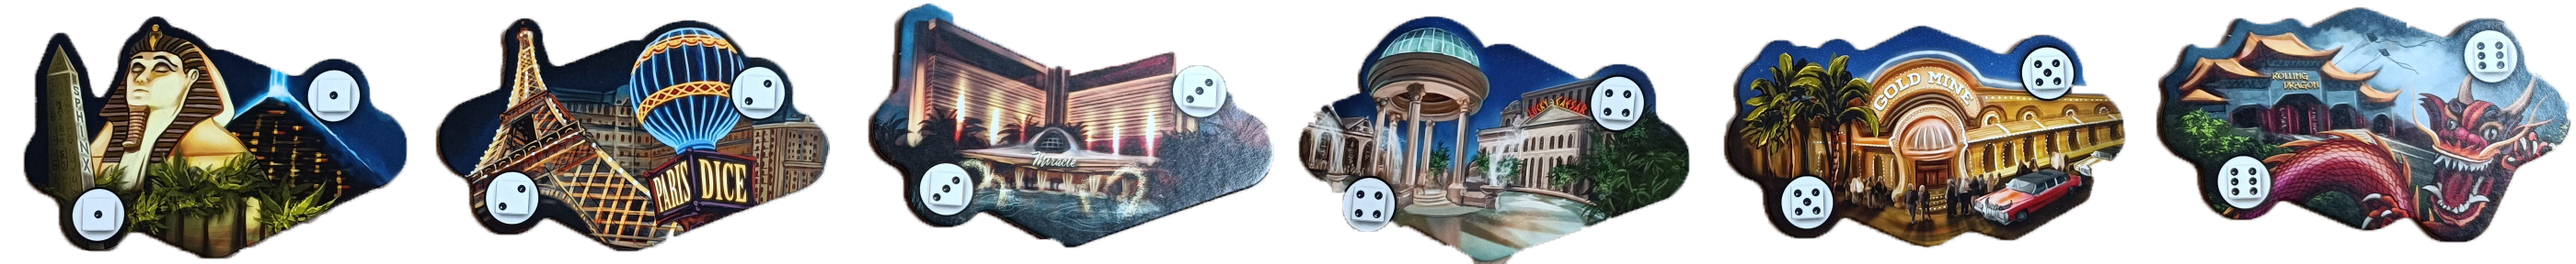
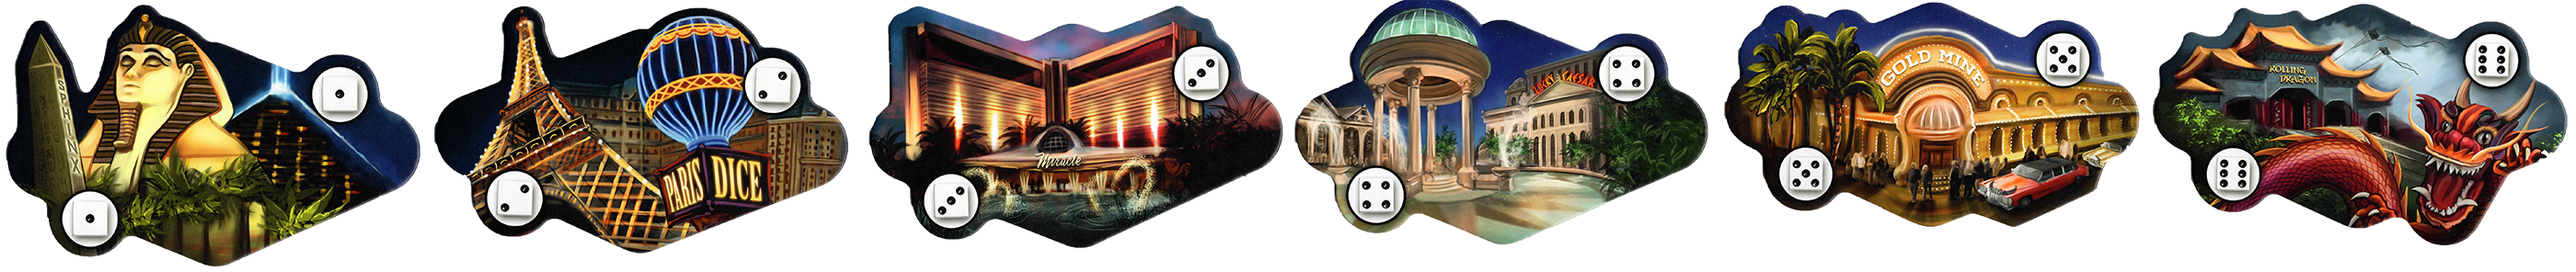
update dices & allow click on dice selector

diff --git a/lasvegasthoun.js b/lasvegasthoun.js
@@ -11,14 +11,15 @@ var Casino = /** @class */ (function () {
         dojo.place("<div id=\"casino_wrapper" + this.casino + "\" class=\"casino_wrapper\">\n                <div id=\"casino" + this.casino + "\" class=\"casino\"></div>\n                <div id=\"banknotes" + this.casino + "\" class=\"banknotes\"></div>\n            </div>", 'casinos');
         document.getElementById("casino" + this.casino).addEventListener('click', function () { return _this.onSelection(); });
         this.stock = new ebg.stock();
-        this.stock.create(this.game, $("banknotes" + this.casino), 350, 100);
+        this.stock.create(this.game, $("banknotes" + this.casino), 350, 165);
         this.stock.centerItems = true;
         this.stock.image_items_per_row = 1;
         this.stock.setSelectionMode(0);
         for (var value = 1; value <= 9; value++) {
-            this.stock.addItemType(value, 10 - value, g_gamethemeurl + "img/banknotes.png", value - 1);
+            this.stock.addItemType(value, 10 - value, g_gamethemeurl + "img/banknotes.jpg", value - 1);
         }
         this.banknotes.forEach(function (banknote) { return _this.stock.addToStockWithId(banknote.value, "" + banknote.id, 'topbar'); });
+        console.log(this.banknotes, this.stock.items);
     };
     Casino.prototype.setSelectable = function (selectable) {
         this.selectable = selectable;
@@ -30,9 +31,11 @@ var Casino = /** @class */ (function () {
         }
     };
     Casino.prototype.slideBanknoteTo = function (banknoteId, playerId) {
+        console.log('slideBanknoteTo', banknoteId, JSON.stringify(this.stock.items, null, 2), document.getElementById("playertable-" + playerId));
         this.stock.removeFromStockById("" + banknoteId, "playertable-" + playerId);
     };
     Casino.prototype.removeBanknote = function (banknoteId) {
+        console.log('removeBanknote', banknoteId, JSON.stringify(this.stock.items, null, 2));
         this.stock.removeFromStockById("" + banknoteId);
     };
     Casino.prototype.removeDices = function () {
@@ -80,8 +83,24 @@ var LasVegas = /** @class */ (function () {
         for (var i = 1; i <= 6; i++) {
             _loop_1(i);
         }
+        document.getElementById('dices-selector').addEventListener('click', function (event) { return _this.diceSelectorClick(event); });
         this.setupNotifications();
         console.log("Ending game setup");
+        /*const colors = [
+            'ff0000',
+            '008000',
+            '0000ff',
+            'ffa500',
+            '000000',
+            'ffffff',
+            'e94190',
+            '982fff',
+            '72c3b1',
+            'f07f16',
+            'bdd002',
+            '7b7b7b'
+        ];
+        colors.forEach(color => dojo.place(this.createDiceHtml(5, color), `dices-test`));*/
     };
     ///////////////////////////////////////////////////
     //// Game & client states
@@ -105,6 +124,7 @@ var LasVegas = /** @class */ (function () {
                 }
             }
         }
+        dojo.addClass('dices-selector', 'selectable');
     };
     // onLeavingState: this method is called each time we are leaving a game state.
     //                 You can use this method to perform some user interface changes at this moment.
@@ -119,6 +139,7 @@ var LasVegas = /** @class */ (function () {
     LasVegas.prototype.onLeavingPlayerTurn = function () {
         //this.setTableDices();
         this.casinos.forEach(function (casino) { return casino.setSelectable(false); });
+        dojo.removeClass('dices-selector', 'selectable');
     };
     // onUpdateActionButtons: in this method you can manage "action buttons" that are displayed in the
     //                        action status bar (ie: the HTML links in the status bar).
@@ -151,7 +172,8 @@ var LasVegas = /** @class */ (function () {
         });
     };
     LasVegas.prototype.createDiceHtml = function (number, color) {
-        return "<div class=\"dice dice" + number + "\"><div class=\"dice-overlay\" style=\"background: #" + color + "\"></div></div>";
+        var blackDot = [parseInt(color.substr(0, 2), 16), parseInt(color.substr(2, 2), 16), parseInt(color.substr(4, 2), 16)].reduce(function (a, b) { return a + b; }) > 460;
+        return "<div class=\"dice dice" + number + " " + (blackDot ? 'black-dot' : 'white-dot') + "\" style=\"background-color: #" + color + "; border-color: #" + color + ";\"></div>";
     };
     LasVegas.prototype.moveDicesToCasino = function (casino, playerId) {
         var _this = this;
@@ -171,6 +193,14 @@ var LasVegas = /** @class */ (function () {
             //(this as any).slideToObjectAndDestroy(element, `overall_player_board_${playerId}`);
             _this.fadeOutAndDestroy(element);
         });
+    };
+    LasVegas.prototype.diceSelectorClick = function (event) {
+        var _a, _b, _c;
+        var numberMatch = (_c = (_b = (_a = event.target) === null || _a === void 0 ? void 0 : _a.classList) === null || _b === void 0 ? void 0 : _b.value) === null || _c === void 0 ? void 0 : _c.match(/\d/);
+        if (numberMatch) {
+            var number = parseInt(numberMatch[0]);
+            this.casinos[number].onSelection();
+        }
     };
     ///////////////////////////////////////////////////
     //// Reaction to cometD notifications

diff --git a/src/lasvegas.ts b/src/lasvegas.ts
@@ -26,14 +26,16 @@ class Casino {
         document.getElementById(`casino${this.casino}`).addEventListener('click', () => this.onSelection());
 
         this.stock = new ebg.stock();
-        this.stock.create( this.game, $(`banknotes${this.casino}`), 350, 100 );
+        this.stock.create( this.game, $(`banknotes${this.casino}`), 350, 165 );
         this.stock.centerItems = true;
         this.stock.image_items_per_row = 1;
         this.stock.setSelectionMode(0);
         for(let value=1; value<=9; value++) {
-            this.stock.addItemType( value, 10 - value, `${g_gamethemeurl}img/banknotes.png`, value-1 );
+            this.stock.addItemType( value, 10 - value, `${g_gamethemeurl}img/banknotes.jpg`, value-1 );
         }
         this.banknotes.forEach(banknote => this.stock.addToStockWithId( banknote.value, `${banknote.id}`, 'topbar'));
+
+        console.log(this.banknotes, this.stock.items);
     }
 
     setSelectable(selectable: boolean) {
@@ -48,15 +50,17 @@ class Casino {
     }
 
     slideBanknoteTo(banknoteId: number, playerId: number) {
+        console.log('slideBanknoteTo', banknoteId, JSON.stringify(this.stock.items, null, 2), document.getElementById(`playertable-${playerId}`));
         this.stock.removeFromStockById(`${banknoteId}`, `playertable-${playerId}`);
     }
 
     removeBanknote(banknoteId: number) {
+        console.log('removeBanknote', banknoteId, JSON.stringify(this.stock.items, null, 2));
         this.stock.removeFromStockById(`${banknoteId}`);
     }
 
     removeDices() {
-        Array.from(document.getElementById(`casino${this.casino}`).getElementsByClassName( `dice`)).forEach((element: HTMLDivElement) => {
+        Array.from(document.getElementById(`casino${this.casino}`).getElementsByClassName(`dice`)).forEach((element: HTMLDivElement) => {
             (this.game as any).fadeOutAndDestroy(element);
         });
     }
@@ -103,9 +107,27 @@ class LasVegas implements LasVegasGame {
             });
         }
 
+        document.getElementById('dices-selector').addEventListener('click', event => this.diceSelectorClick(event));
+
         this.setupNotifications();
 
         console.log( "Ending game setup" );
+
+        /*const colors = [
+            'ff0000',
+            '008000',
+            '0000ff',
+            'ffa500',
+            '000000',
+            'ffffff',
+            'e94190',
+            '982fff',
+            '72c3b1',
+            'f07f16',
+            'bdd002',
+            '7b7b7b'
+        ];
+        colors.forEach(color => dojo.place(this.createDiceHtml(5, color), `dices-test`));*/
     } 
 
     ///////////////////////////////////////////////////
@@ -134,6 +156,7 @@ class LasVegas implements LasVegasGame {
                 }
             }
         }
+        dojo.addClass('dices-selector', 'selectable');
     }
     
 
@@ -152,6 +175,7 @@ class LasVegas implements LasVegasGame {
         //this.setTableDices();
 
         this.casinos.forEach(casino => casino.setSelectable(false));
+        dojo.removeClass('dices-selector', 'selectable');
     }
 
     // onUpdateActionButtons: in this method you can manage "action buttons" that are displayed in the
@@ -195,7 +219,8 @@ class LasVegas implements LasVegasGame {
         }
 
         private createDiceHtml(number: number, color: string) {
-            return `<div class="dice dice${number}"><div class="dice-overlay" style="background: #${color}"></div></div>`
+            const blackDot = [parseInt(color.substr(0, 2), 16), parseInt(color.substr(2, 2), 16), parseInt(color.substr(4, 2), 16)].reduce((a, b) => a+b) > 460;
+            return `<div class="dice dice${number} ${blackDot ? 'black-dot' : 'white-dot'}" style="background-color: #${color}; border-color: #${color};"></div>`;
         }
 
         private moveDicesToCasino(casino: number, playerId: number) {
@@ -217,6 +242,14 @@ class LasVegas implements LasVegasGame {
                 //(this as any).slideToObjectAndDestroy(element, `overall_player_board_${playerId}`);
                 (this as any).fadeOutAndDestroy(element);
             });
+        }
+
+        private diceSelectorClick(event: MouseEvent) {
+            const numberMatch = (event.target as HTMLDivElement)?.classList?.value?.match(/\d/);
+            if (numberMatch) {
+                const number = parseInt(numberMatch[0]);
+                this.casinos[number].onSelection();
+            }
         }
 
 

diff --git a/src/lasvegas.scss b/src/lasvegas.scss
@@ -1,28 +1,39 @@
 #dices-selector {
     text-align: center;
     min-height: 40px;
+
+    &.selectable {
+        .dice {
+            cursor: pointer;
+        }
+    }
 }
 
 .dice {
     display: inline-block;
     position: relative;
-    background-image: url('img/dices.png');
     background-position: 0px 0px;
     width: 33px;
     height: 33px;
     margin: 3px;
+    border-radius: 6px;
+    border-style: outset;
+    border-width: 1px;
+    box-shadow: 2px 2px 4px 0px rgba(0,0,0,0.5);
+
+    &.white-dot {
+        background: url('img/dices-white.png'), black;
+        background-size: auto 100%;
+    }
+    &.black-dot {
+        background: url('img/dices-black.png'), black;
+        background-size: auto 100%;
+    }
 
     @for $i from 1 through 6 {
         &.dice#{$i}{
           background-position-x: ($i - 1)/5 * 100%;
         }
-    }
-
-    .dice-overlay {
-        width: 100%;
-        height: 100%;
-        opacity: 0.6;
-        border-radius: 6px;
     }
 }
 
@@ -39,7 +50,7 @@
             background-image: url('img/casinos.png');
             background-position: 0px 0px;
             width: 466px;
-            height: 288px;
+            height: 292px;
             box-sizing: border-box;
             
             display: flex;
@@ -58,4 +69,12 @@
             }
         }
     }
+}
+
+#firstPlayerToken {
+    display: inline-block;
+    position: relative;
+    background-image: url('img/firstplayer.png');
+    width: 32px;
+    height: 32px;
 }

diff --git a/lasvegasthoun.css b/lasvegasthoun.css
@@ -2,15 +2,29 @@
   text-align: center;
   min-height: 40px;
 }
+#dices-selector.selectable .dice {
+  cursor: pointer;
+}
 
 .dice {
   display: inline-block;
   position: relative;
-  background-image: url("img/dices.png");
   background-position: 0px 0px;
   width: 33px;
   height: 33px;
   margin: 3px;
+  border-radius: 6px;
+  border-style: outset;
+  border-width: 1px;
+  box-shadow: 2px 2px 4px 0px rgba(0, 0, 0, 0.5);
+}
+.dice.white-dot {
+  background: url("img/dices-white.png"), black;
+  background-size: auto 100%;
+}
+.dice.black-dot {
+  background: url("img/dices-black.png"), black;
+  background-size: auto 100%;
 }
 .dice.dice1 {
   background-position-x: 0%;
@@ -30,12 +44,6 @@
 .dice.dice6 {
   background-position-x: 100%;
 }
-.dice .dice-overlay {
-  width: 100%;
-  height: 100%;
-  opacity: 0.6;
-  border-radius: 6px;
-}
 
 #casinos {
   display: flex;
@@ -50,7 +58,7 @@
   background-image: url("img/casinos.png");
   background-position: 0px 0px;
   width: 466px;
-  height: 288px;
+  height: 292px;
   box-sizing: border-box;
   display: flex;
   justify-content: center;
@@ -77,4 +85,12 @@
 #casinos .casino_wrapper .casino.selectable {
   border: 4px red dashed;
   cursor: pointer;
+}
+
+#firstPlayerToken {
+  display: inline-block;
+  position: relative;
+  background-image: url("img/firstplayer.png");
+  width: 32px;
+  height: 32px;
 }

diff --git a/lasvegasthoun.game.php b/lasvegasthoun.game.php
@@ -357,6 +357,7 @@ class LasVegasThoun extends Table
 
     function stCollectBills() {
         $round_number = self::getGameStateValue("round_number") + 1;
+        self::setGameStateValue("round_number", $round_number);
 
         $endGame = $round_number == self::getGameStateValue("player_number");
 
@@ -392,6 +393,8 @@ class LasVegasThoun extends Table
             for ($b = 0; $b < count($dicesOnCasino) && $b < count($banknotesOnCasino); $b++) {
                 $hasBanknotes = $b < count($banknotesOnCasino);
                 $hasDices = $b < count($dicesOnCasino);
+                self::debug("[GBA] casino=$i b=$b hasBanknotes=$hasBanknotes hasDices=$hasDices");
+
                 if ($hasBanknotes && $hasDices) {
                     $playerId = $dicesOnCasino[$b]->playerId;
                     $banknote = $banknotesOnCasino[$b];
